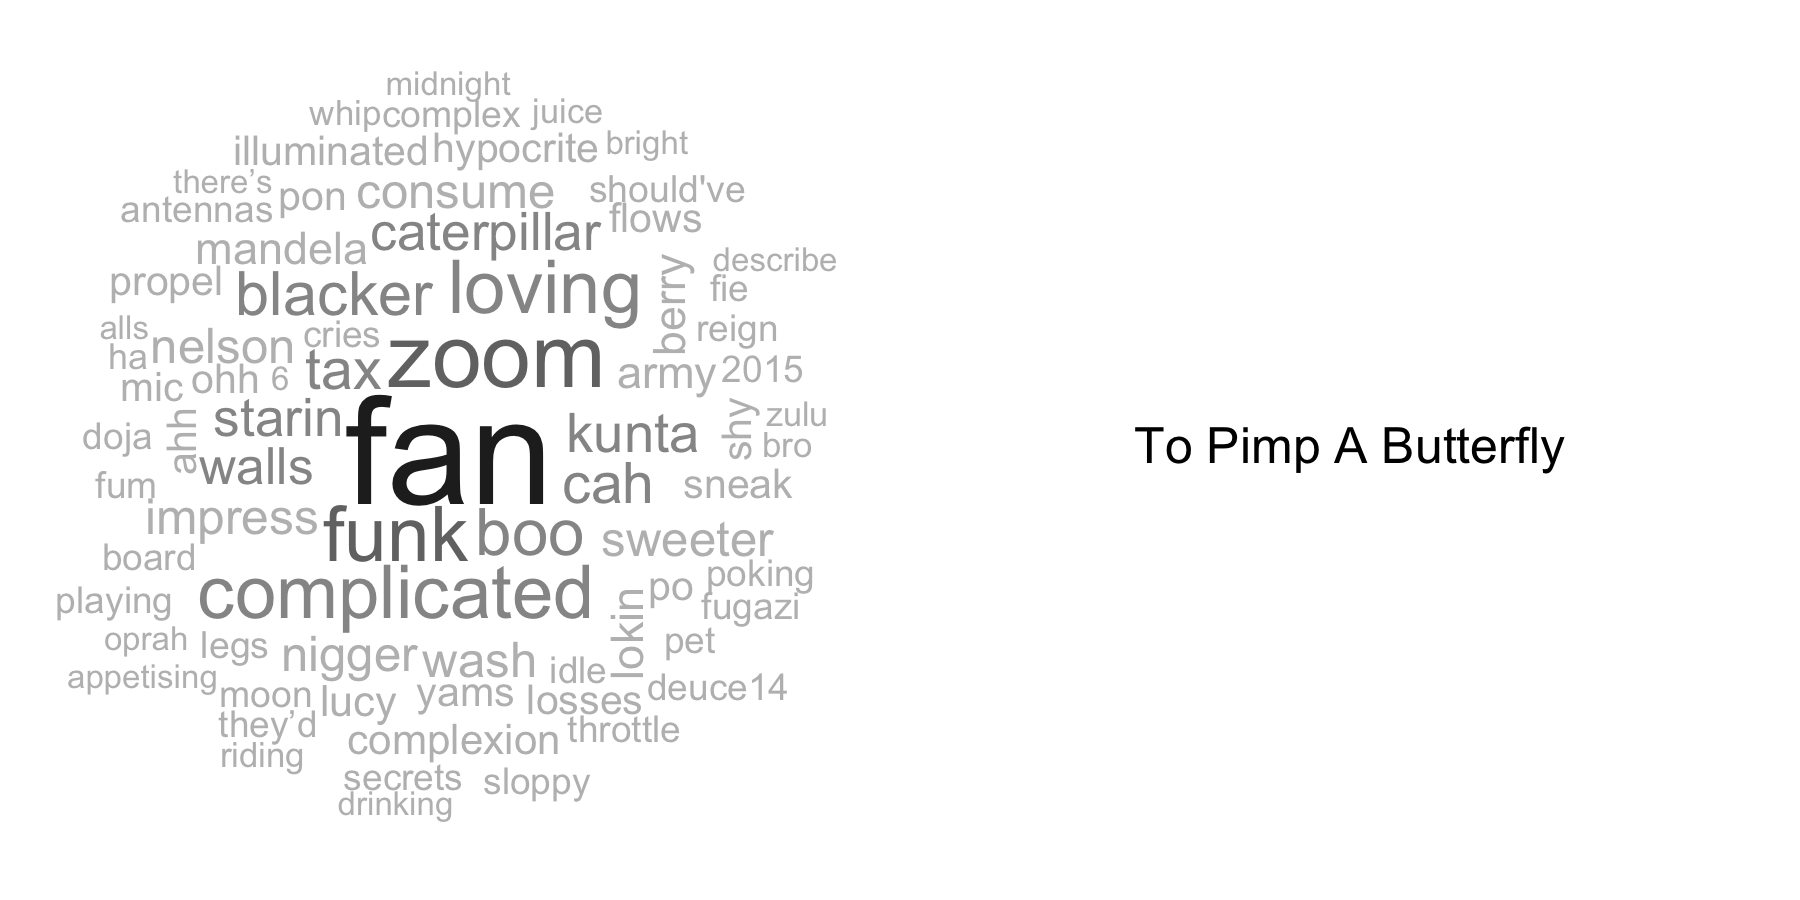
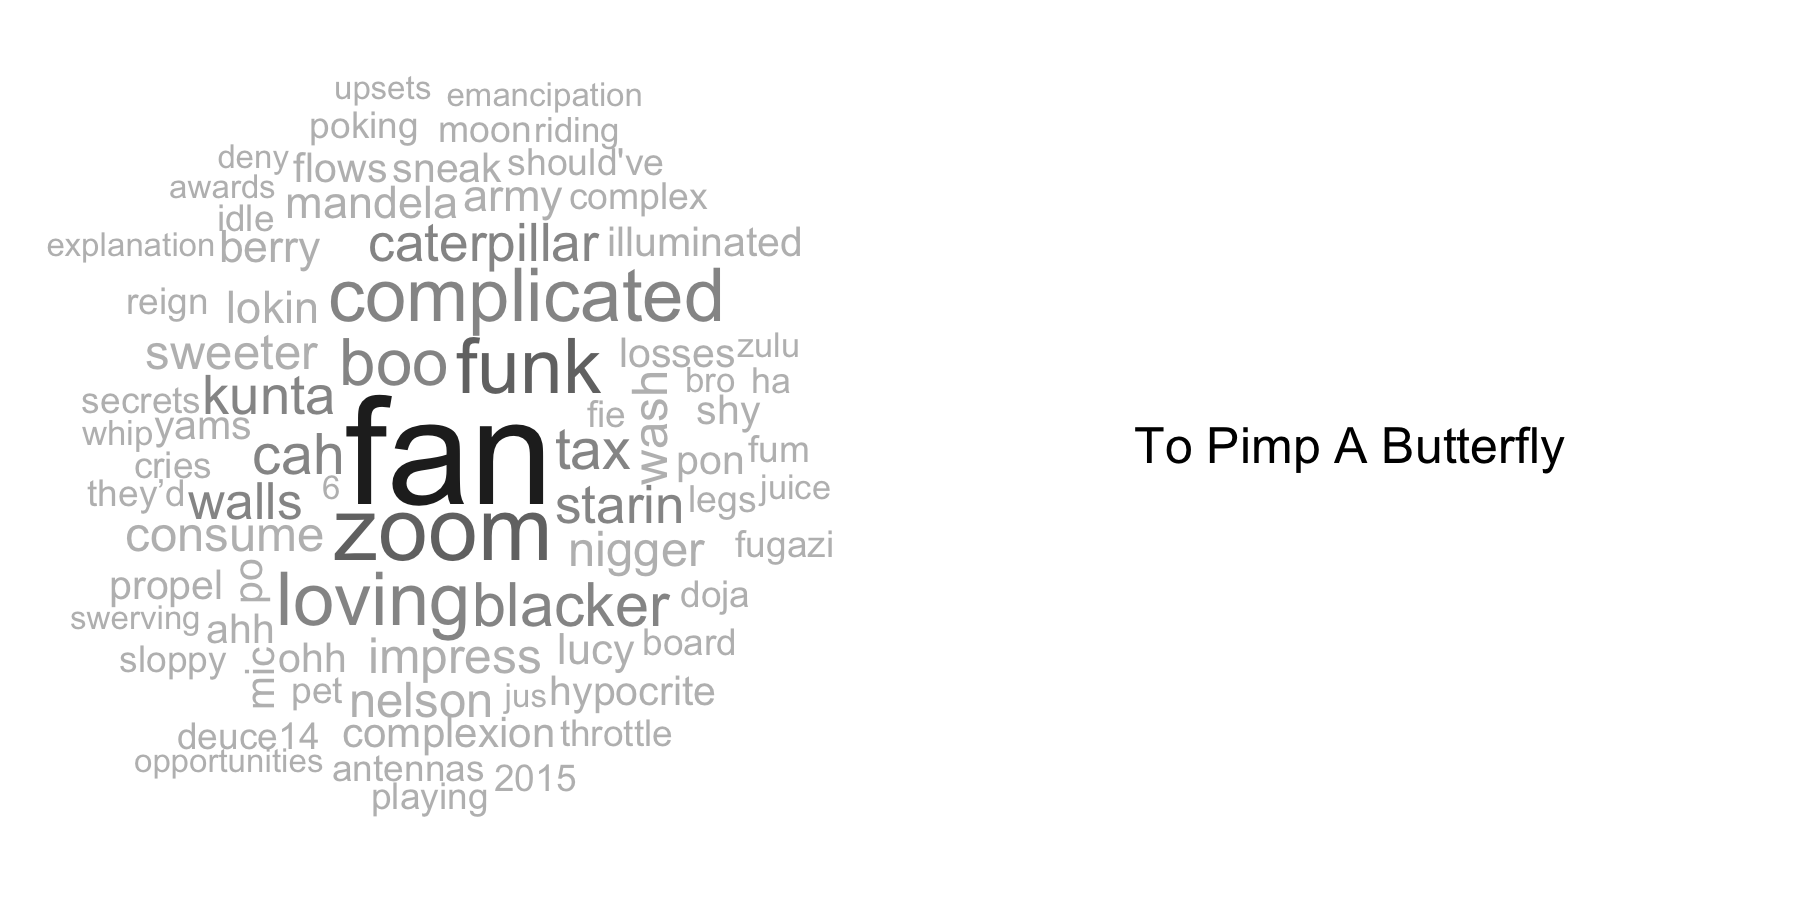
added sentiment contributions

Changed region(s): [[0.0311, 0.0622, 0.4667, 0.9022]]

diff --git a/results/kendrick.md b/results/kendrick.md
@@ -142,6 +142,49 @@ image_write(sentiment_plot, path = "../results/sentiment_plot.png", format = "pn
 
 You might wonder which words are contributing most to these positive and negative sentiment scores. We'll see this below, but first, a warning: Kendrick is profane.
 
+``` r
+# Get the words contribute most to each sentiment.
+bing_word_counts <- tidy_kendrick %>%
+        inner_join(bing) %>%
+        count(word, sentiment, sort = TRUE) %>%
+        ungroup()
+
+# See a word cloud of the top words by word count.
+cleaned_kendrick %>%
+        count(word) %>%
+        with(wordcloud(word, n, max.words = 100))
+```
+
+![](kendrick_files/figure-markdown_github/sentiment_contributions-1.png)
+
+``` r
+# View the words contribute most to each sentiment
+bing_word_counts %>%
+        filter(n > 30) %>%
+        mutate(n = ifelse(sentiment == "negative", -n, n)) %>%
+        mutate(word = reorder(word, n)) %>%
+        ggplot(aes(word, n, fill = sentiment)) +
+        geom_bar(stat = "identity", alpha = 0.8) +
+        scale_fill_manual(values = c("red", "#3CDE00")) +
+        theme(axis.text.x = element_text(angle = 0, hjust = 1)) +
+        ylab("Contribution to sentiment") +
+        coord_flip()
+```
+
+![](kendrick_files/figure-markdown_github/sentiment_contributions-2.png)
+
+``` r
+# Colored by sentiment.
+tidy_kendrick %>%
+        inner_join(bing) %>%
+        count(word, sentiment, sort = TRUE) %>%
+        acast(word ~ sentiment, value.var = "n", fill = 0) %>%
+        comparison.cloud(colors = c("red", "#3CDE00"),
+                         max.words = 100, title.size = 2)
+```
+
+![](kendrick_files/figure-markdown_github/sentiment_contributions-3.png)
+
 Topic Modelling
 ---------------
 
@@ -162,18 +205,17 @@ word_counts <- tidy_kendrick %>%
         left_join(album_word_counts)
 
 # Take a look.
-head(word_counts)
+head(word_counts) %>% knitr::kable()
 ```
 
-    ## # A tibble: 6 × 6
-    ##               album_name track_number track_name  word     n word_count
-    ##                   <fctr>        <int>     <fctr> <chr> <int>      <int>
-    ## 1                  DAMN.            8    HUMBLE.   hol    64       8531
-    ## 2 good kid, m.A.A.d city           11       Real  real    50      11644
-    ## 3 good kid, m.A.A.d city           11       Real  love    48      11644
-    ## 4                  DAMN.            5      FEEL.  feel    44       8531
-    ## 5                  DAMN.            3       YAH.   yah    43       8531
-    ## 6             Section.80            2    Hol' Up  hold    41       9181
+| album\_name            |  track\_number| track\_name | word |    n|  word\_count|
+|:-----------------------|--------------:|:------------|:-----|----:|------------:|
+| DAMN.                  |              8| HUMBLE.     | hol  |   64|         8531|
+| good kid, m.A.A.d city |             11| Real        | real |   50|        11644|
+| good kid, m.A.A.d city |             11| Real        | love |   48|        11644|
+| DAMN.                  |              5| FEEL.       | feel |   44|         8531|
+| DAMN.                  |              3| YAH.        | yah  |   43|         8531|
+| Section.80             |              2| Hol' Up     | hold |   41|         9181|
 
 ``` r
 # Get the tf-idf
@@ -184,19 +226,17 @@ album_words <- word_counts %>%
 album_words %>%
         select(-word_count) %>%
         arrange(desc(tf_idf)) %>% 
-        head()
+        head() %>% knitr::kable()
 ```
 
-    ## # A tibble: 6 × 8
-    ##             album_name track_number                track_name     word
-    ##                 <fctr>        <int>                    <fctr>    <chr>
-    ## 1                DAMN.            3                      YAH.      yah
-    ## 2 untitled unmastered.            7 untitled 07 | 2014 - 2016 levitate
-    ## 3 untitled unmastered.            6 untitled 06 | 06.30.2014.  explain
-    ## 4           Section.80            7         Ronald Reagan Era     woop
-    ## 5  To Pimp A Butterfly           16                Mortal Man      fan
-    ## 6 untitled unmastered.            7 untitled 07 | 2014 - 2016      bam
-    ## # ... with 4 more variables: n <int>, tf <dbl>, idf <dbl>, tf_idf <dbl>
+| album\_name          |  track\_number| track\_name               | word     |    n|         tf|       idf|    tf\_idf|
+|:---------------------|--------------:|:--------------------------|:---------|----:|----------:|---------:|----------:|
+| DAMN.                |              3| YAH.                      | yah      |   43|  0.0128052|  1.791759|  0.0229439|
+| untitled unmastered. |              7| untitled 07 | 2014 - 2016 | levitate |   28|  0.0167264|  1.098612|  0.0183758|
+| untitled unmastered. |              6| untitled 06 | 06.30.2014. | explain  |   20|  0.0119474|  1.098612|  0.0131256|
+| Section.80           |              7| Ronald Reagan Era         | woop     |   24|  0.0072007|  1.791759|  0.0129020|
+| To Pimp A Butterfly  |             16| Mortal Man                | fan      |   31|  0.0062174|  1.791759|  0.0111401|
+| untitled unmastered. |              7| untitled 07 | 2014 - 2016 | bam      |   10|  0.0059737|  1.791759|  0.0107035|
 
 ``` r
 # Look at the words with the highest tf-idf within good kid, m.A.A.d city.
@@ -204,20 +244,17 @@ album_words %>%
         filter(album_name == "good kid, m.A.A.d city") %>%
         select(-word_count) %>%
         arrange(desc(tf_idf)) %>% 
-        head()
+        head() %>% knitr::kable()
 ```
 
-    ## # A tibble: 6 × 8
-    ##               album_name track_number
-    ##                   <fctr>        <int>
-    ## 1 good kid, m.A.A.d city           10
-    ## 2 good kid, m.A.A.d city            9
-    ## 3 good kid, m.A.A.d city            6
-    ## 4 good kid, m.A.A.d city            9
-    ## 5 good kid, m.A.A.d city            4
-    ## 6 good kid, m.A.A.d city            5
-    ## # ... with 6 more variables: track_name <fctr>, word <chr>, n <int>,
-    ## #   tf <dbl>, idf <dbl>, tf_idf <dbl>
+| album\_name            |  track\_number| track\_name                               | word   |    n|        tf|        idf|    tf\_idf|
+|:-----------------------|--------------:|:------------------------------------------|:-------|----:|---------:|----------:|----------:|
+| good kid, m.A.A.d city |             10| Sing About Me, I'm Dying Of Thirst        | thirst |   16|  0.003696|  1.7917595|  0.0066223|
+| good kid, m.A.A.d city |              9| Swimming Pools (Drank) - Extended Version | drank  |   32|  0.007392|  0.6931472|  0.0051237|
+| good kid, m.A.A.d city |              6| Poetic Justice                            | poetic |   12|  0.002772|  1.7917595|  0.0049668|
+| good kid, m.A.A.d city |              9| Swimming Pools (Drank) - Extended Version | dive   |   12|  0.002772|  1.7917595|  0.0049668|
+| good kid, m.A.A.d city |              4| The Art of Peer Pressure                  | doo    |    9|  0.002079|  1.7917595|  0.0037251|
+| good kid, m.A.A.d city |              5| Money Trees                               | bish   |   14|  0.003234|  1.0986123|  0.0035529|
 
 ``` r
 # Reset the factor levels according to the tf-idf
@@ -495,9 +532,9 @@ sessionInfo()
     ## [10] DBI_0.5-1          plyr_1.8.4         munsell_0.4.3     
     ## [13] gtable_0.2.0       psych_1.6.9        evaluate_0.10     
     ## [16] labeling_0.3       knitr_1.15.1       parallel_3.3.1    
-    ## [19] broom_0.4.1        tokenizers_0.1.4   Rcpp_0.12.9.2     
-    ## [22] backports_1.0.4    mnormt_1.5-4       digest_0.6.12     
-    ## [25] stringi_1.1.2      rprojroot_1.1      tools_3.3.1       
-    ## [28] magrittr_1.5       lazyeval_0.2.0     janeaustenr_0.1.4 
-    ## [31] Matrix_1.2-6       assertthat_0.1     rmarkdown_1.2.9000
-    ## [34] R6_2.1.3           nlme_3.1-128
+    ## [19] highr_0.6          broom_0.4.1        tokenizers_0.1.4  
+    ## [22] Rcpp_0.12.9.2      backports_1.0.4    mnormt_1.5-4      
+    ## [25] digest_0.6.12      stringi_1.1.2      rprojroot_1.1     
+    ## [28] tools_3.3.1        magrittr_1.5       lazyeval_0.2.0    
+    ## [31] janeaustenr_0.1.4  Matrix_1.2-6       assertthat_0.1    
+    ## [34] rmarkdown_1.2.9000 R6_2.1.3           nlme_3.1-128
